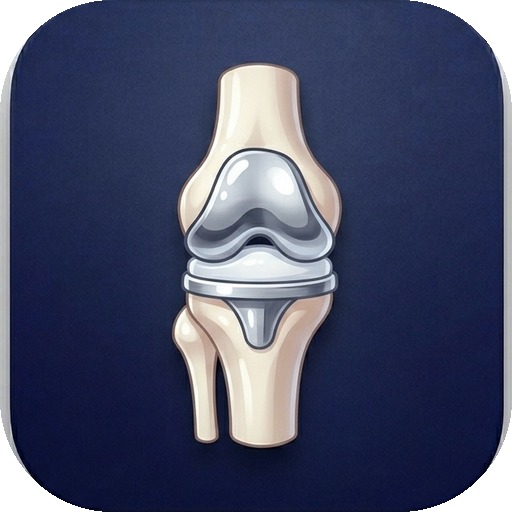
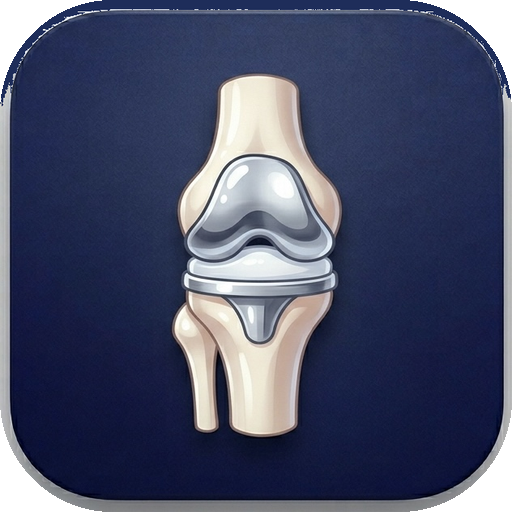
Add files via upload

diff --git a/css/style.css b/css/style.css
@@ -32,12 +32,12 @@ html,body{height:100%;font-family:'Noto Sans TC',sans-serif;background:var(--bg)
 #app{display:flex;flex-direction:column;height:100dvh;width:100%;background:var(--bg)}
 
 /* Auth */
-#auth-screen{display:none;flex-direction:column;align-items:center;justify-content:center;height:100dvh;background:linear-gradient(150deg,#dbeafe,#f0f4f8);padding:2rem;gap:1.6rem}
+#auth-screen{display:none;flex-direction:column;align-items:center;justify-content:center;height:100dvh;background:linear-gradient(160deg,#e8eef8 0%,#d4e0f0 50%,#c8d8ec 100%);padding:2rem;gap:1.4rem}
 .auth-logo{width:96px;height:96px;background:white;border:2px solid var(--acc-bd);border-radius:22px;display:flex;align-items:center;justify-content:center;box-shadow:var(--shadow)}
 .auth-logo svg{width:60px;height:60px}
-.auth-title{font-size:2rem;font-weight:700;color:var(--accent)}
-.auth-sub{font-size:.95rem;color:var(--txt2);text-align:center;line-height:1.7}
-.btn-google{display:flex;align-items:center;gap:12px;background:white;color:#333;border:1px solid #ddd;border-radius:var(--r);padding:14px 28px;font-size:1rem;font-weight:500;cursor:pointer;box-shadow:var(--shadow)}
+.auth-title{font-size:2.2rem;font-weight:700;color:var(--accent);letter-spacing:-.02em}
+.auth-sub{font-size:.95rem;color:var(--txt2);text-align:center;line-height:1.8}
+.btn-google{display:flex;align-items:center;gap:14px;background:white;color:#333;border:none;border-radius:14px;padding:15px 32px;font-size:1rem;font-weight:500;cursor:pointer;box-shadow:0 2px 16px rgba(0,0,0,.10);min-width:260px;justify-content:center}
 .btn-google img{width:22px}
 
 /* Header */
@@ -272,12 +272,11 @@ html,body{height:100%;font-family:'Noto Sans TC',sans-serif;background:var(--bg)
   }
 
   #auth-screen {
-    border-radius: 20px;
-    width: min(500px, calc(100vw - 32px));
+    width: 100%;
     max-width: none;
-    height: auto;
-    min-height: 60dvh;
-    margin: auto;
+    height: 100dvh;
+    border-radius: 0;
+    margin: 0;
   }
 
   #desktop-panel { display: none; }

diff --git a/index.html b/index.html
@@ -194,8 +194,6 @@
   <h2>🦴 Ortho Record</h2>
   <div class="dp-hint">
     <strong>骨科手術紀錄管理系統</strong><br><br>
-    📱 在手機上以 PWA 安裝使用效果最佳<br>
-    🖥️ 桌面模式下，左側為主操作介面<br><br>
     <strong>快速操作：</strong><br>
     • 左右滑動切換醫材 / 手術紀錄 / 門診<br>
     • 點擊任何項目查看詳細資料<br>